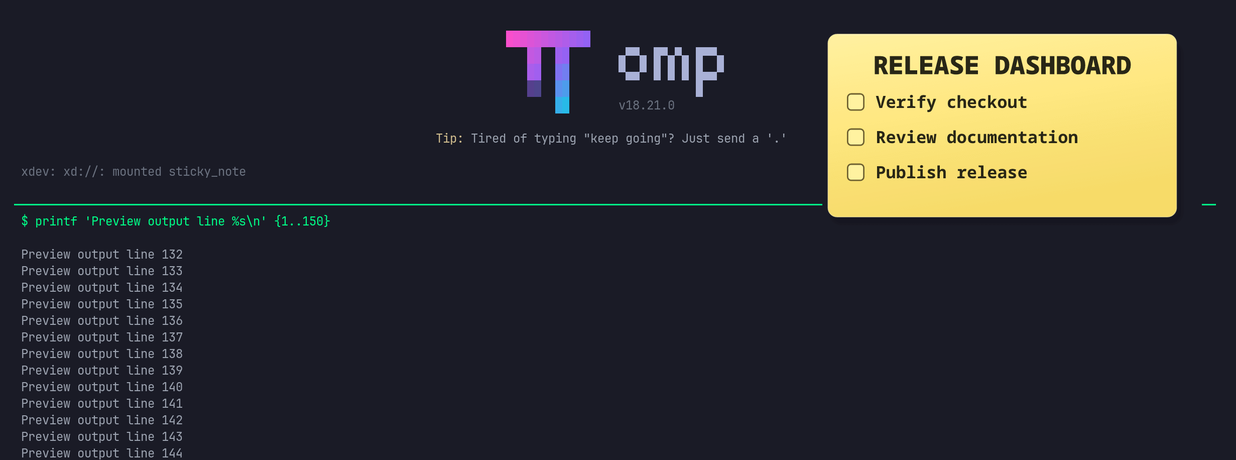
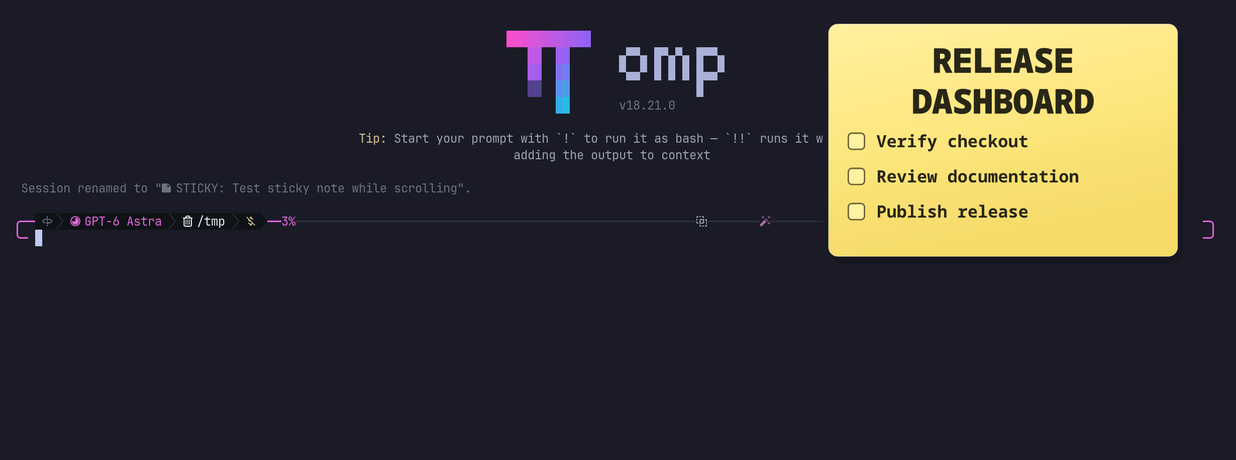
fix: simplify and enlarge sticky note headlines
- Remove decorative OMP icon tags from automatic titles without modifying session names or manual notes.
- Enlarge native headlines by 33 percent and strengthen their weight while preserving task typography.
- Halve the graphic top gap using terminal cell geometry and align the fallback to the top row.
- Cover title normalization and refresh screenshots and 1.1.2 release notes.

Changed region(s): [[0.0, 0.0304, 0.9531, 1.0], [0.4919, 0.0913, 0.5841, 0.1826], [0.4919, 0.213, 0.5534, 0.2435]]

diff --git a/src/paper.ts b/src/paper.ts
@@ -2,6 +2,7 @@ import { truncateToWidth, wrapTextWithAnsi } from "@oh-my-pi/pi-tui";
 import { cleanLabel, type Note } from "./state.ts";
 
 export const WELCOME = "Your project and next steps will appear here.";
+export const PAPER_WIDTH = 520;
 
 export function wrapLabel(text: string, limit: number, available: number): string[] {
   available = Math.max(1, Math.floor(available));
@@ -19,19 +20,22 @@ function xml(text: string): string {
 }
 
 /** A fixed design canvas; terminal geometry scales the complete paper, not individual labels. */
-export function paperSvg(note: Note): { svg: string; width: number; height: number } {
-  const width = 520;
+export function paperSvg(note: Note, rowHeight = 0): { svg: string; width: number; height: number } {
+  const width = PAPER_WIDTH;
+  // Replace the former full terminal-row margin with half its visible gap,
+  // including the paper's existing five-unit inset. ANSI stays on whole rows.
+  const topInset = Math.max(0, (rowHeight - 5) / 2);
   const ink: string[] = [];
   // Monospace metrics make a terminal-cell wrap conservative even for CJK and emoji fallback fonts.
   const lines = (label: string, size: number, available: number) => wrapLabel(label, 2, available / (size * 0.66));
   const text = (label: string, x: number, y: number, size: number, weight: number, color = "#292616") => {
     ink.push(`<text x="${x}" y="${y}" font-size="${size}" font-weight="${weight}" fill="${color}">${xml(label)}</text>`);
   };
-  const title = lines(note.title.toUpperCase(), 36, 436);
-  ink.push('<g text-anchor="middle">');
-  title.forEach((line, index) => text(line, 256, 62 + index * 44, 36, 800));
+  const title = lines(note.title.toUpperCase(), 48, 436);
+  ink.push('<g text-anchor="middle" stroke="#292616" stroke-width="0.6" stroke-linejoin="round" paint-order="stroke fill">');
+  title.forEach((line, index) => text(line, 256, 74 + index * 58, 48, 900));
   ink.push("</g>");
-  let y = 62 + (title.length - 1) * 44 + 48;
+  let y = 74 + (title.length - 1) * 58 + 48;
   if (note.tasks.length === 0) {
     const welcome = lines(WELCOME, 20, 436);
     welcome.forEach((line, index) => text(line, 36, y + index * 29, 20, 400, "#645b32"));
@@ -45,14 +49,15 @@ export function paperSvg(note: Note): { svg: string; width: number; height: numb
       y += label.length * 32 + 18;
     }
   }
-  const height = Math.max(206, y + 26);
-  const paperHeight = height - 26;
+  const paperHeight = Math.max(206, y + 26) - 26;
+  const height = paperHeight + 26 + topInset;
   // Layered translucent silhouettes soften the offset shadow without a blur filter dependency.
   const svg = `<svg xmlns="http://www.w3.org/2000/svg" width="${width}" height="${height}" viewBox="0 0 ${width} ${height}">
 <defs>
   <linearGradient id="paper" x1="0" y1="0" x2="0.3" y2="1"><stop stop-color="#fff1a0"/><stop offset="0.48" stop-color="#ffe780"/><stop offset="1" stop-color="#f7dc69"/></linearGradient>
   <clipPath id="ink"><rect x="30" y="20" width="452" height="${paperHeight - 24}"/></clipPath>
 </defs>
+<g transform="translate(0 ${topInset})">
 <rect x="9" y="15" width="505" height="${paperHeight + 2}" rx="19" fill="#000" opacity="0.025"/>
 <rect x="11" y="16" width="501" height="${paperHeight}" rx="17" fill="#000" opacity="0.035"/>
 <rect x="13" y="15" width="497" height="${paperHeight - 1}" rx="15" fill="#000" opacity="0.045"/>
@@ -60,6 +65,7 @@ export function paperSvg(note: Note): { svg: string; width: number; height: numb
 <rect x="8" y="5" width="496" height="${paperHeight}" rx="13" fill="url(#paper)" stroke="#fff3b2" stroke-opacity="0.65"/>
 <path d="M23 6 H489" stroke="#fff9d2" stroke-opacity="0.7"/>
 <g font-family="DejaVu Sans Mono, Noto Sans Mono, monospace" clip-path="url(#ink)">${ink.join("")}</g>
+</g>
 </svg>`;
   return { svg, width, height };
 }

diff --git a/src/index.ts b/src/index.ts
@@ -1,7 +1,7 @@
 import type { ExtensionAPI, ExtensionContext } from "@oh-my-pi/pi-coding-agent";
 import type { Component, OverlayHandle, TUI } from "@oh-my-pi/pi-tui";
 import { StickyNote } from "./note.ts";
-import { cleanLabel, ENTRY_TYPE, parseSaved, restore, type SavedNote, type Task } from "./state.ts";
+import { cleanLabel, ENTRY_TYPE, parseSaved, restore, sessionTitle, type SavedNote, type Task } from "./state.ts";
 
 const WIDGET = "omp-stickynote.owner";
 const HELP = "/sticky Title | task one | task two | task three\n/sticky auto · /sticky hide · /sticky show · /sticky done 1";
@@ -28,7 +28,7 @@ export default function stickynote(pi: ExtensionAPI): void {
   let note = new StickyNote(noteOptions);
 
   function title(): string {
-    return cleanLabel(pi.getSessionName() ?? "") || "Ready to begin";
+    return sessionTitle(pi.getSessionName() ?? "");
   }
 
   function restoreCursor(): string {
@@ -68,7 +68,7 @@ export default function stickynote(pi: ExtensionAPI): void {
     overlay = tui.showOverlay(note, {
       anchor: centered ? "top-center" : "top-right",
       width: 54,
-      margin: { top: 1, right: 2, left: 1, bottom: 4 },
+      margin: { top: 0, right: 2, left: 1, bottom: 4 },
       maxHeight: "100%",
     });
     // OMP 18.21 has no passive overlay option. Its public stack uses `released`
@@ -143,7 +143,7 @@ export default function stickynote(pi: ExtensionAPI): void {
         if (!graphics) return;
         const width = Math.max(1, Math.min(54, frame.columns - 3));
         const col = centered ? 1 + Math.floor((frame.columns - 3 - width) / 2) : frame.columns - 2 - width;
-        const row = 1;
+        const row = 0;
         // OMP 18.21 slices partial-overlay rows as text, corrupting SIXEL.
         // The component reserves the rectangle with ordinary blank rows; emit
         // its cached Image rows after the host paint, without passing graphics

diff --git a/src/note.ts b/src/note.ts
@@ -1,6 +1,6 @@
 import { rasterizeSvg } from "@oh-my-pi/pi-natives";
 import { getCellDimensions, getImageDimensions, Image, TERMINAL, truncateToWidth, visibleWidth, type Component } from "@oh-my-pi/pi-tui";
-import { paperSvg, WELCOME, wrapLabel } from "./paper.ts";
+import { PAPER_WIDTH, paperSvg, WELCOME, wrapLabel } from "./paper.ts";
 import { cleanLabel, type Note } from "./state.ts";
 
 // Deliberately independent of the host theme: sticky-paper yellow, dark ink.
@@ -126,7 +126,7 @@ export class StickyNote implements Component {
     if (this.#disposed || this.#running || !request || this.#failedKey === request.key || this.#imageKey === request.key) return;
     this.#running = true;
     try {
-      const paper = paperSvg(request.note);
+      const paper = paperSvg(request.note, request.cell.heightPx * PAPER_WIDTH / request.widthPx);
       // Permit HiDPI upscaling and pad to whole terminal cells, as the host's SvgFigure does.
       const scale = Math.max(1, request.widthPx / paper.width, request.heightPx / paper.height);
       const png = await rasterizeSvg(new TextEncoder().encode(paper.svg), request.widthPx, request.heightPx, scale, request.cell);

diff --git a/test/state.test.ts b/test/state.test.ts
@@ -1,9 +1,17 @@
 import assert from "node:assert/strict";
 import test from "node:test";
-import { cleanLabel, ENTRY_TYPE, parseSaved, restore, tasksFromPhases } from "../src/state.ts";
+import { cleanLabel, ENTRY_TYPE, parseSaved, restore, sessionTitle, tasksFromPhases } from "../src/state.ts";
 
 test("labels cannot inject colors, cursor motion, or terminal hyperlinks", () => {
   assert.equal(cleanLabel("\x1b[31mBuild\x1b[0m\n\x1b]8;;https://example.com\x07app\x1b]8;;\x07\u202e"), "Build app");
+});
+
+test("automatic headlines remove OMP icon tags without discarding meaningful title words", () => {
+  assert.equal(sessionTitle("\u{f039a} STICKY: Test sticky note while scrolling"), "Test sticky note while scrolling");
+  assert.equal(sessionTitle("⚙ BUILD: Release dashboard"), "Release dashboard");
+  assert.equal(sessionTitle("API: Preserve this heading"), "API: Preserve this heading");
+  assert.equal(sessionTitle("Release dashboard"), "Release dashboard");
+  assert.equal(sessionTitle("\u{f039a} STICKY: "), "Ready to begin");
 });
 
 test("only three unfinished tasks remain; completed and abandoned work does not crowd them out", () => {

diff --git a/src/state.ts b/src/state.ts
@@ -26,6 +26,13 @@ export function cleanLabel(text: string): string {
     .trim();
 }
 
+/** OMP's terminal icon/tag is window chrome, not part of the project's headline. */
+export function sessionTitle(name: string): string {
+  return cleanLabel(name)
+    .replace(/^[\p{Extended_Pictographic}\p{Co}\uFE0F\u200D]+\s+[A-Z][A-Z0-9_-]*:\s*/u, "")
+    .trim() || "Ready to begin";
+}
+
 function record(value: unknown): value is Record<string, unknown> {
   return value !== null && typeof value === "object";
 }

diff --git a/README.md b/README.md
@@ -32,10 +32,10 @@ Remove it with `omp plugin uninstall omp-stickynote`, then restart OMP.
 
 ## How it works
 
-- **Automatic by default.** Uses the session title and follows the first three unfinished OMP todos in plan order. Once everything is complete, shows up to three completed tasks.
+- **Automatic by default.** Uses the session title without OMP's decorative icon/tag prefix and follows the first three unfinished OMP todos in plan order. Once everything is complete, shows up to three completed tasks.
 - **A clean welcome.** Before a session title or tasks exist, shows **READY TO BEGIN** and “Your project and next steps will appear here.” No working-directory name or automatic empty checkbox.
-- **Readable at a glance.** Headlines are centered and displayed in all caps without changing the stored project title. Task checkboxes and labels stay left-aligned in their original case.
-- **Pinned to the live viewport.** Starts at the top-right and moves once to the top-center after actual transcript scrolling. A new session resets the position to the top-right.
+- **Readable at a glance.** Headlines are centered, extra-heavy, and displayed in all caps without changing the stored project title. Native graphics use 33% larger headline type than v1.1.1. Task checkboxes and labels stay left-aligned in their original case.
+- **Pinned to the live viewport.** Starts at the top-right and moves once to the top-center after actual transcript scrolling. A new session resets the position to the top-right. Native graphics use half the previous top gap; ANSI fallback uses the top row.
 - **Keyboard stays yours.** No key capture, editor replacement, or extra prompt to dismiss.
 - **Session-local.** Manual notes and visibility are stored in OMP's session entries and restored on resume or branch navigation. Separate sessions do not share mutable note state. OMP controls persistence: a fresh session with no assistant turn may still be memory-only, and `--no-session` never saves it.
 - **No extra model calls.** The extension uses OMP's existing title and task state. It makes no network requests and adds no telemetry.

diff --git a/CHANGELOG.md b/CHANGELOG.md
@@ -1,5 +1,12 @@
 # Changelog
 
+## 1.1.2 — 2026-11-16
+
+- Remove OMP's decorative icon/tag prefix from automatic headlines, retaining the meaningful title and leaving manual titles untouched.
+- Increase native headline type from 36 to 48 units (33%) with extra-heavy weight and a subtle strengthening stroke; keep task typography unchanged.
+- Halve the native graphic's top gap within the terminal viewport using cell-aware spacing. ANSI fallback moves to the top row because text terminals cannot position half rows.
+- Add regression coverage for decorated session titles and ordinary titles containing colons.
+
 ## 1.1.1 — 2026-11-16
 
 - Center the headline and display it in all caps for better distance readability, in both native graphics and ANSI output.
